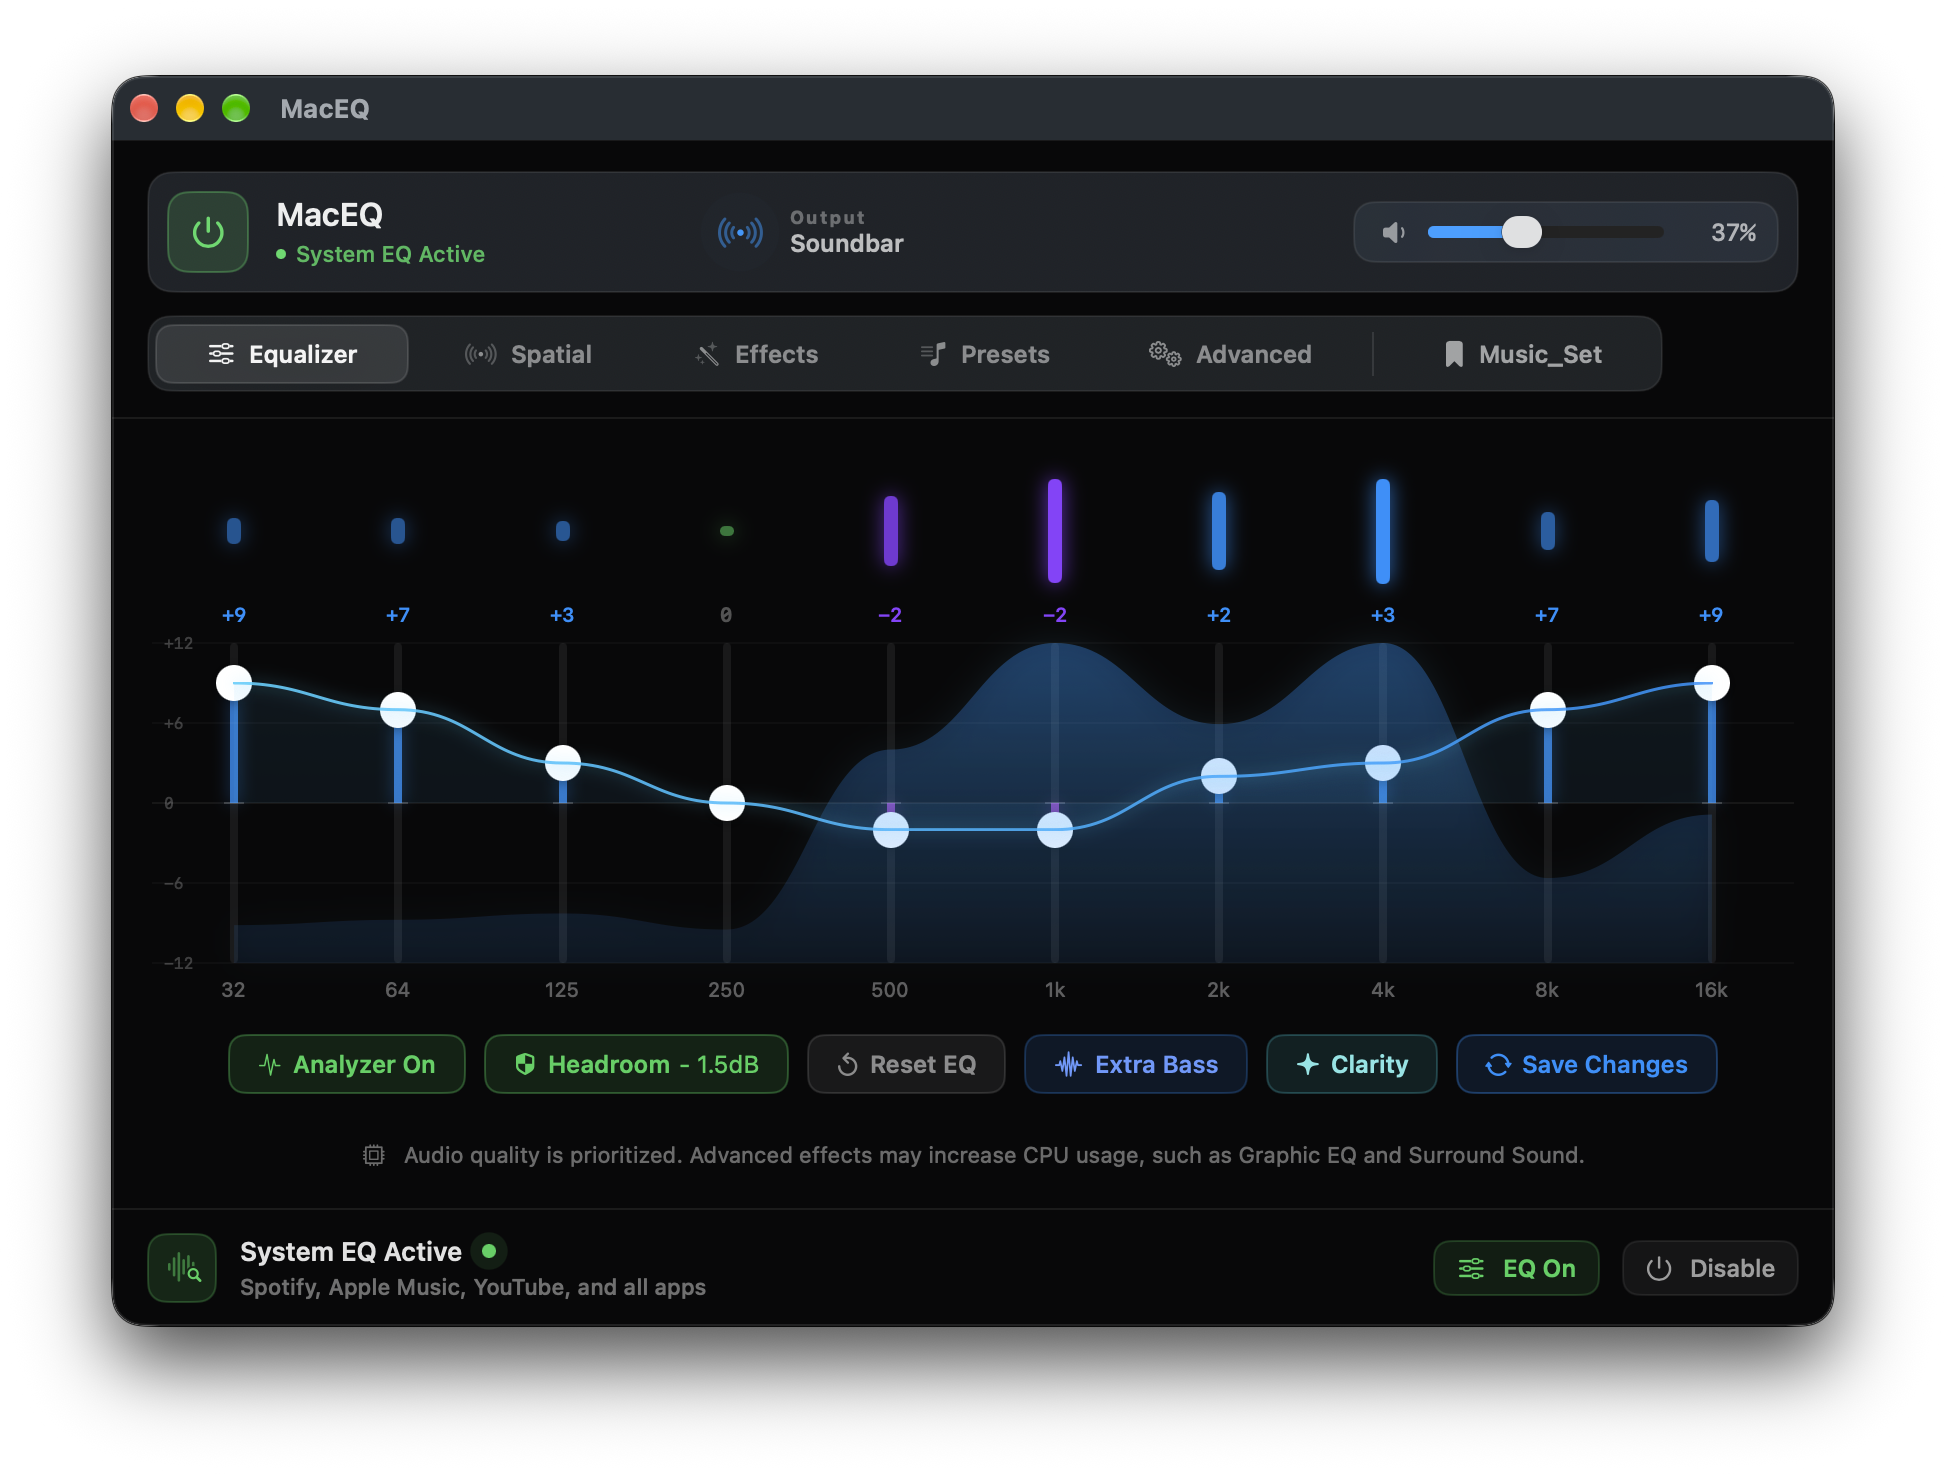
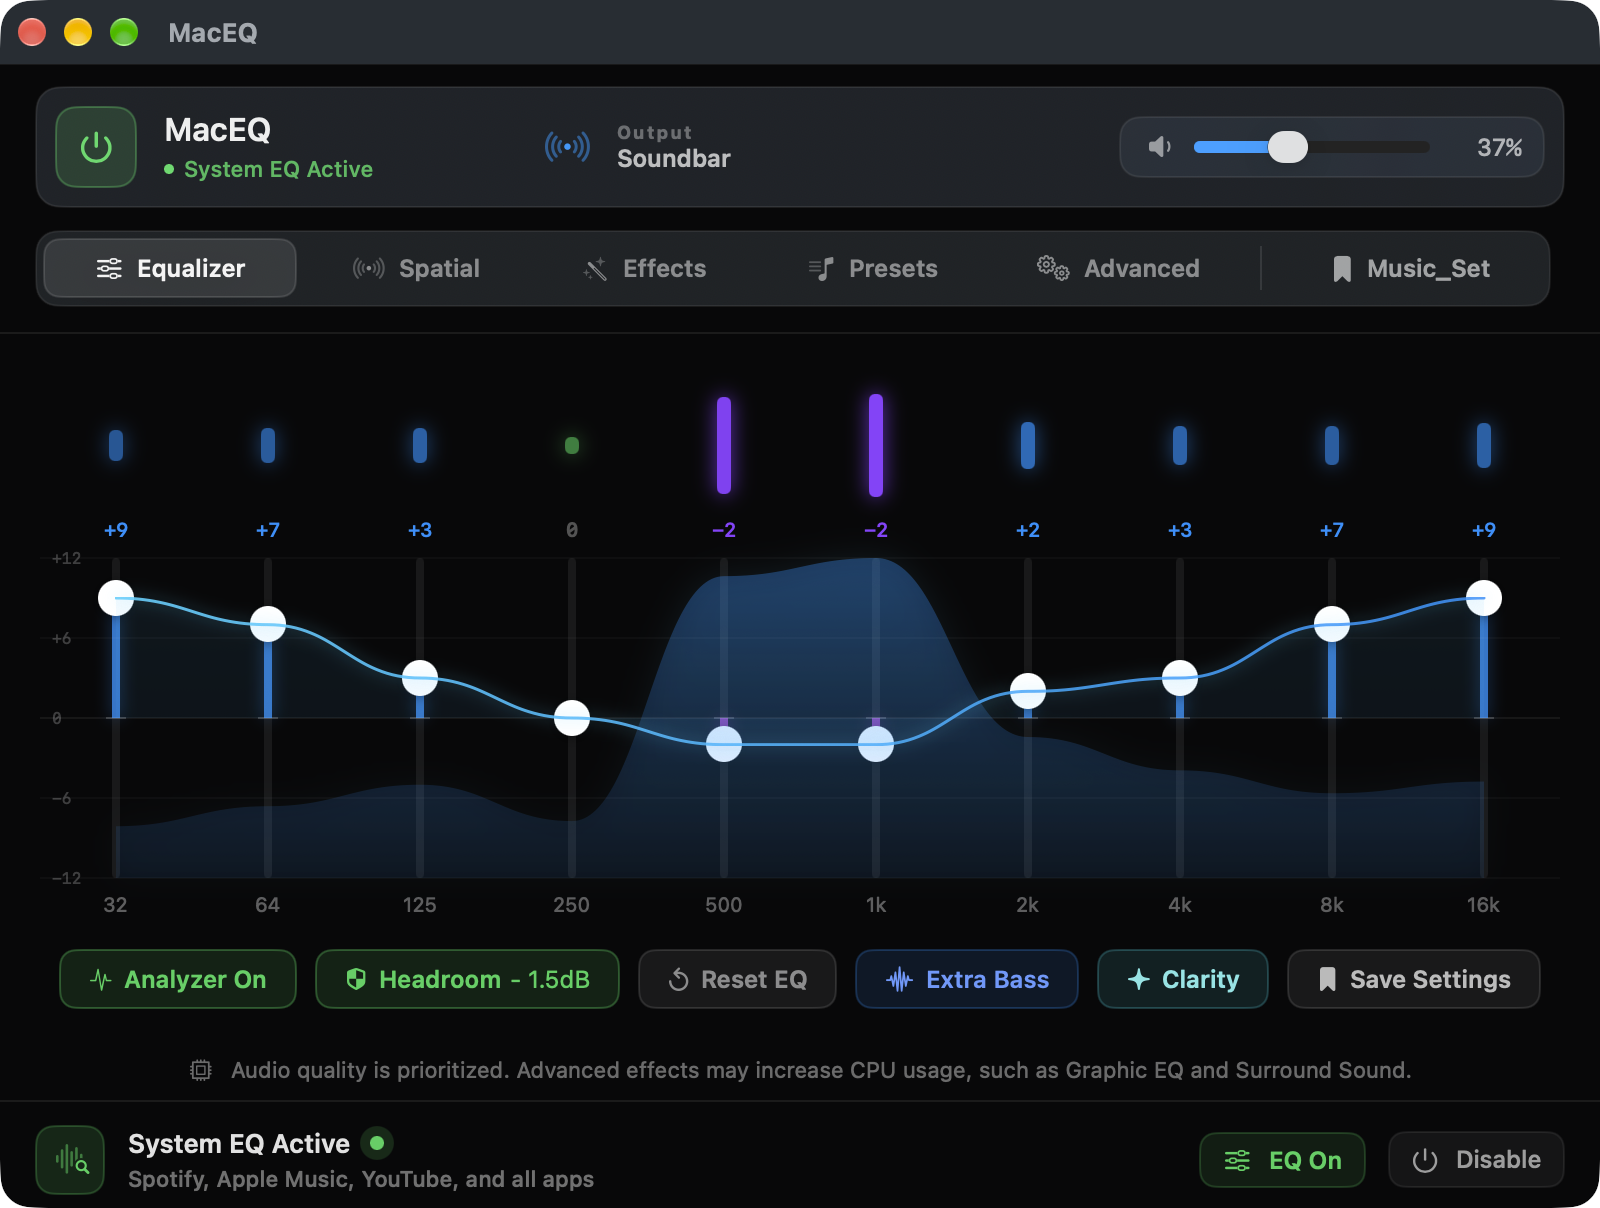
Refinement

diff --git a/index.html b/index.html
@@ -290,7 +290,7 @@
 <p class="requirements">Free to try · Requires macOS 27 · No Driver · No Subscription</p>
 
 <figure class="reveal main-figure">
-  <img src="Assets/Main%20App.png" width="1440" height="1248" alt="macEQ equalizer showing a live spectrum analyzer and a ten-band EQ curve">
+  <img src="Assets/Main%20App.png" width="1600" height="1208" alt="macEQ equalizer showing a live spectrum analyzer and a ten-band EQ curve">
   <figcaption>The ten-band equalizer, with the live curve and spectrum analyzer.</figcaption>
 </figure>
 
@@ -355,7 +355,7 @@
 </p>
 
 <figure class="reveal">
-  <img src="Assets/Presets%20Tab.png" width="1440" height="1302" loading="lazy" alt="macEQ presets tab with saved and built-in sound profiles">
+  <img src="Assets/Presets%20Tab.png?v=2" width="1664" height="1526" loading="lazy" alt="macEQ presets tab with saved and built-in sound profiles">
   <figcaption>Built-in and personal presets, all in one place.</figcaption>
 </figure>
 

diff --git a/theme.css b/theme.css
@@ -99,16 +99,11 @@ figcaption {
   margin-top: 14px;
 }
 
-.main-figure figcaption,
-.spatial-figure figcaption {
-  margin-top: 14px;
-}
-
-.main-figure img,
 .spatial-figure img {
-  aspect-ratio: 1946 / 1328;
-  object-fit: cover;
-  object-position: top;
+  width: 113.1%;
+  max-width: none;
+  height: auto;
+  margin-left: -6.55%;
 }
 
 /* ---------- Hero: a more confident app icon ---------- */
